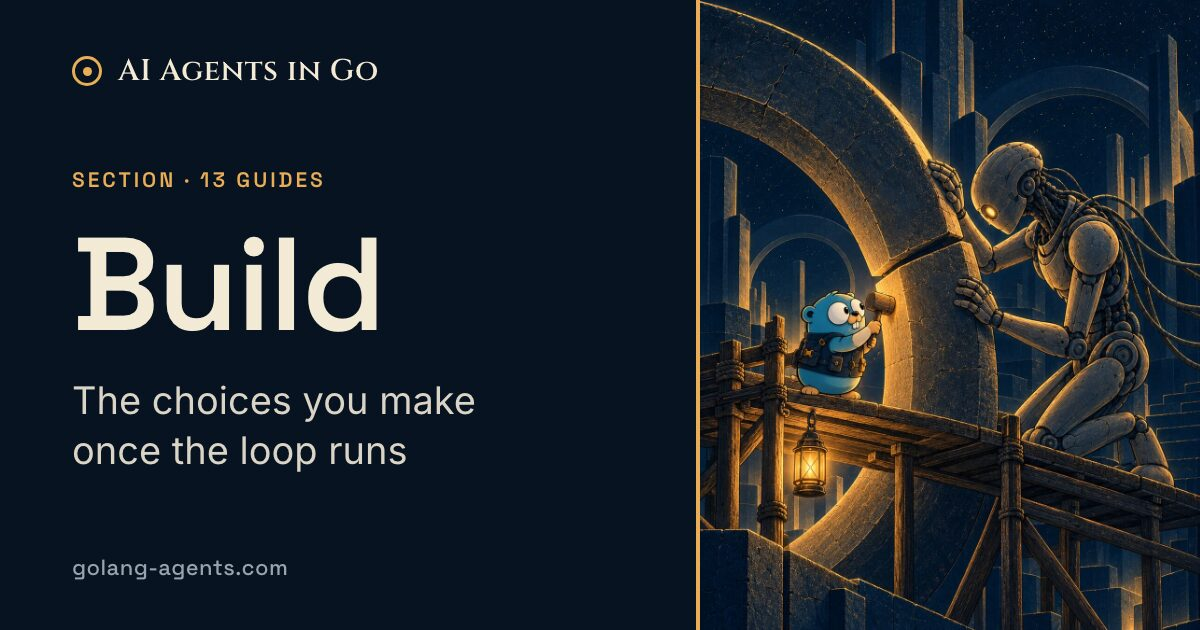
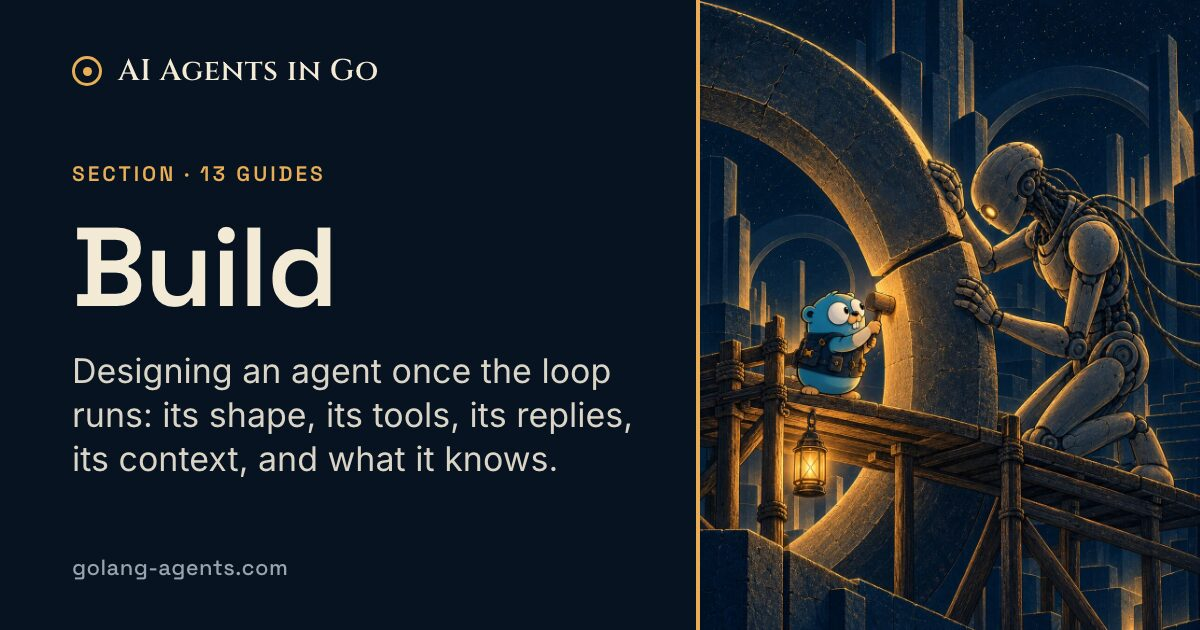
Build: a shorter section description

Changed region(s): [[0.0617, 0.573, 0.5242, 0.754], [0.0617, 0.3619, 0.3392, 0.5429], [0.0617, 0.2413, 0.2775, 0.3016]]

diff --git a/content/build/_index.md b/content/build/_index.md
@@ -1,6 +1,6 @@
 ---
 title: Build
-description: The choices you make once the loop runs: a workflow or an agent, tools a model uses well, streaming, answers in a fixed shape, long contexts, parallel work, sub-agents, MCP, retrieval from your own documents, and memory between sessions.
+description: "Designing an agent once the loop runs: its shape, its tools, its replies, its context, and what it knows."
 ---
 
 Each design page names the problem, shows the design in Go, and says what the design cost in tokens, money, and turns across the book's recorded runs, with a short list of when to reach for it and when to leave it out.
